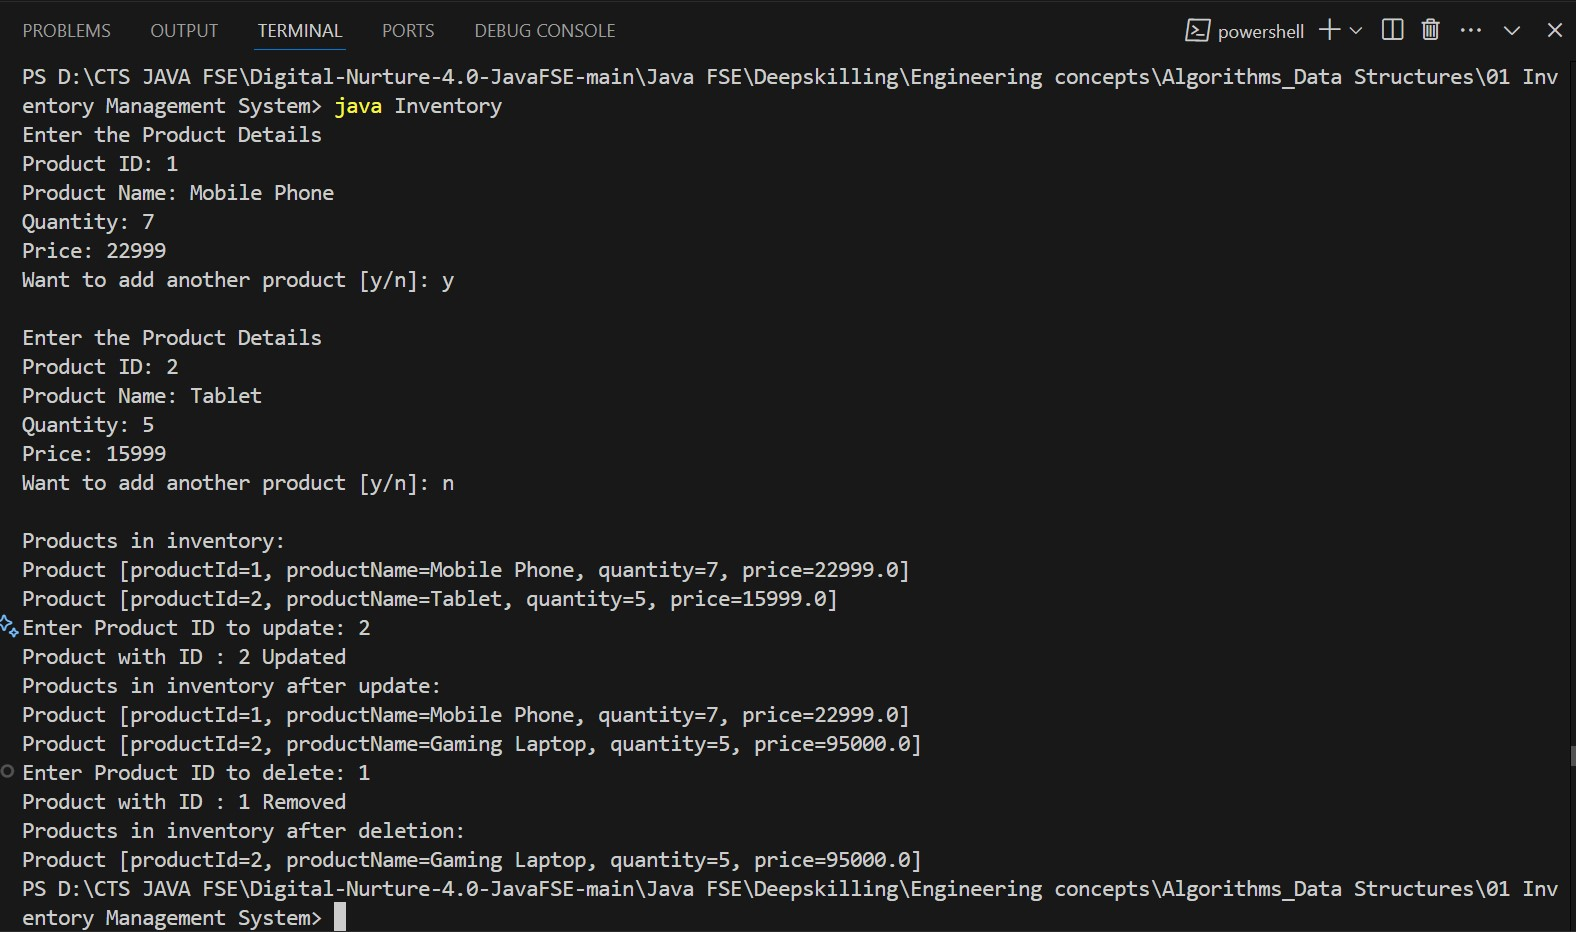
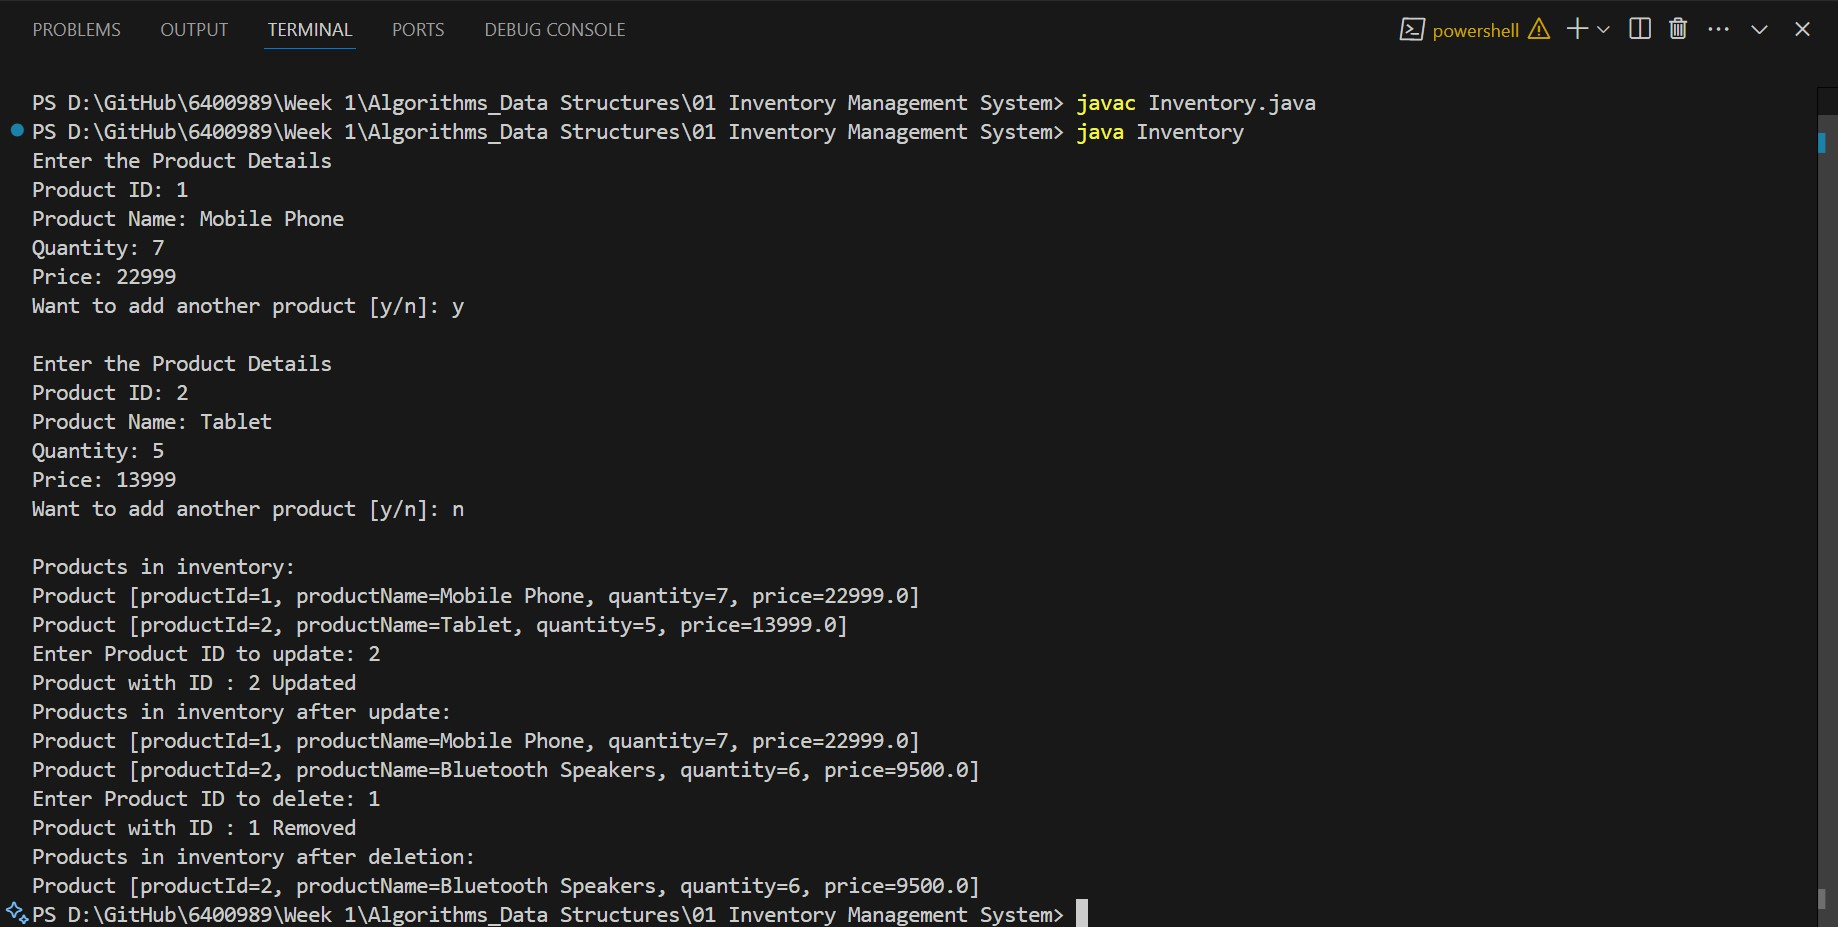
Inventory.java, Inventory.class, Output.jpg

Changed region(s): [[0.0, 0.0, 1.0, 1.0]]

diff --git a/Week 1/Algorithms_Data Structures/01 Inventory Management System/Inventory.java b/Week 1/Algorithms_Data Structures/01 Inventory Management System/Inventory.java
@@ -103,7 +103,7 @@ public class Inventory
         // Updating a product
         System.out.print("Enter Product ID to update: ");
         productId = sc.nextInt();
-        inventory.updateProduct(productId, "Gaming Laptop", 5, 95000.00);
+        inventory.updateProduct(productId, "Bluetooth Speakers", 6, 9500.00);
 
         // Displaying products after update
         System.out.println("Products in inventory after update:");
